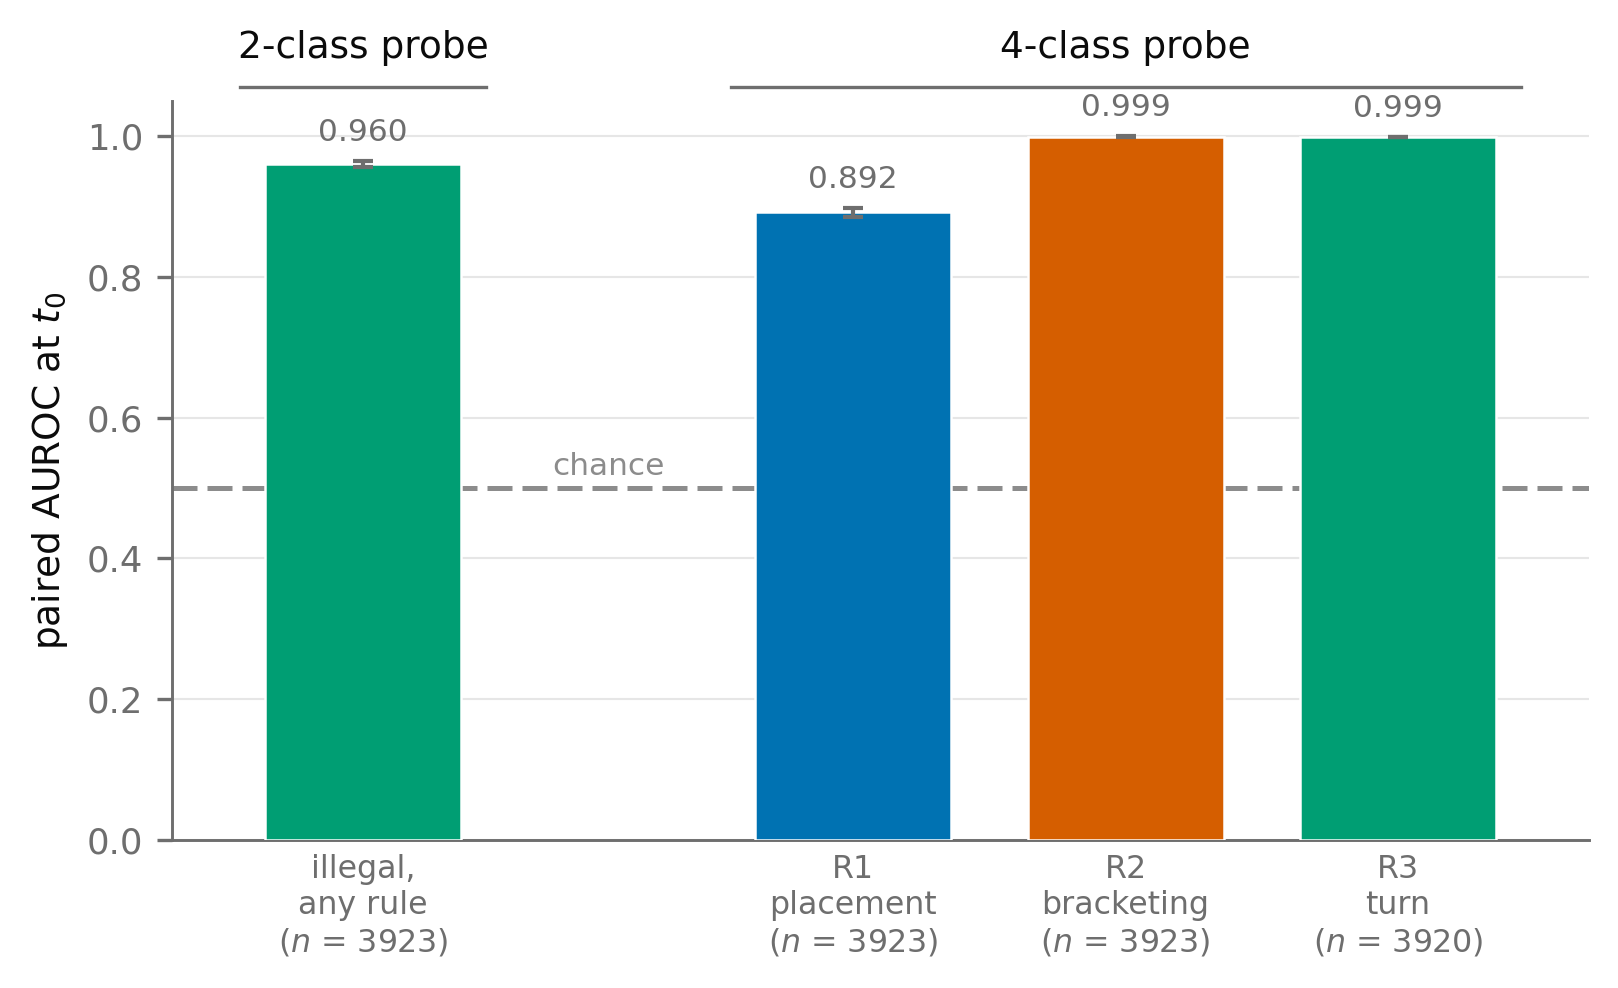
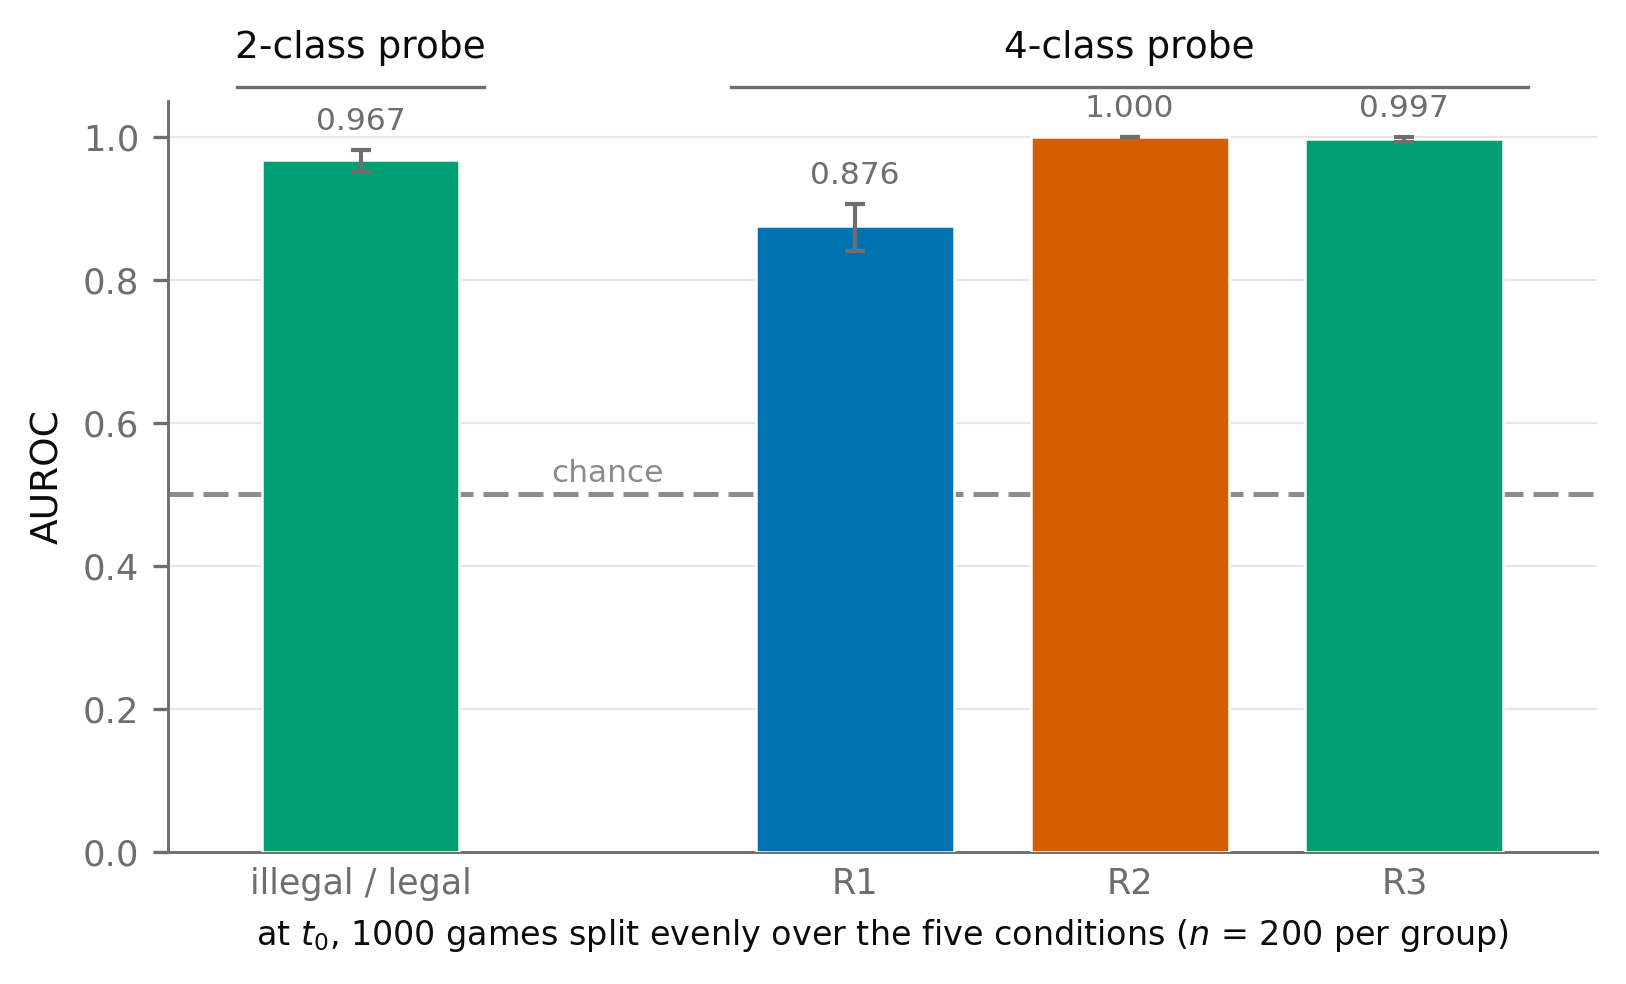
Score the probe-head AUROCs on an evenly split 1000-game evaluation set
The bars now read illegal / legal, R1, R2, R3 against a plain AUROC axis, over
1000 source games dealt disjointly to the five conditions at 200 each, with t0
spanning [10, 34] inside every group.

The even split costs the pairing, which was holding game identity and move index
fixed so the contrast was the move alone; disjoint groups make both between-group
variance and widen the intervals about fourfold. The paired form is still
computed and still in the CSV under a pairing column, because it is what the
README quotes, and the two agree within their intervals on every arm.

diff --git a/analysis/move_legality/detection_auroc.py b/analysis/move_legality/detection_auroc.py
@@ -1,10 +1,19 @@
 """At the spliced move, how well does each probe head separate illegal from legal?
 
-One bar chart. Every bar is a paired AUROC at t0: one arm's score against the score the
-same game's matched legal control gets at the same position of the same prefix, one pair
-per game. The 2-class head is read as P(illegal), the 4-class head as 1 - P(legal) and
-split by which rule the branch actually broke, so a rule the probe cannot catch shows up as
-its own short bar rather than being averaged away.
+One bar chart, over an evaluation set of EVAL_GAMES source games split evenly across the
+five conditions -- legal, illegal, R1, R2, R3 -- so each condition is a disjoint group of
+games and no game appears twice. Every bar is that group's score at its own t0 against the
+legal group's, and t0 varies over the whole [10, 34] range within every group. The 2-class
+head is read as P(illegal), the 4-class head as 1 - P(legal) and split by which rule the
+branch actually broke, so a rule the probe cannot catch shows up as its own short bar
+rather than being averaged away.
+
+**The even split costs the pairing, and that is a real trade.** Scoring an illegal branch
+against *the same game's* legal control at *the same* position held game identity and move
+index fixed, so the contrast was the move alone; disjoint groups reintroduce both as
+between-group variance, and 200 per group widens every interval against 3,923 pairs. The
+paired figure is still computed and still in the CSV (`pairing` column) -- it is the number
+README.md quotes -- so nothing is lost by drawing the split one.
 
 AUROC is threshold-free, so a head's hit rate and the false alarms it pays for it are one
 number rather than two bars. The legal-vs-legal null -- a game's legal control against the
@@ -32,37 +41,91 @@ FIGURES = repo_root() / "analysis" / "move_legality" / "figures"
 RESULTS = repo_root() / "analysis" / "move_legality" / "results"
 RULES = localize.RULES
 SEED = 42
-GAP = 0.8   # blank slot between the two heads
+GAP = 0.8            # blank slot between the two heads
+EVAL_GAMES = 1000    # split evenly over the five conditions, so 200 games each
+N_BOOT = 1000
+CONDITIONS = ["control", "illegal", *RULES]
 
 ARM_STYLE = {
-    "illegal": {**CLASS_STYLE["violation"], "label": "illegal,\nany rule"},
+    "illegal": {**CLASS_STYLE["violation"], "label": "illegal / legal"},
     "control": NULL,   # the legal-vs-legal null: measured, printed in the note, not a bar
-    **{r: {**PROBE_CLASS_STYLE[r],
-           "label": PROBE_CLASS_STYLE[r]["label"].replace(" ", "\n")} for r in RULES},
+    **{r: {**PROBE_CLASS_STYLE[r], "label": r} for r in RULES},
 }
 
 
-def bar(head: str, score: torch.Tensor, arm: str, meta: dict, selection: dict) -> dict:
-    """One arm's AUROC against the legal branch it is paired with in every game.
+def evaluation_split(meta: dict, selection: dict, seed: int = SEED) -> dict[str, np.ndarray]:
+    """EVAL_GAMES games dealt evenly and disjointly to the five conditions.
 
-    The control arm is scored against `control_legal_2`, the second legal branch every game
-    carries: pairing it with itself would print a tautological 0.5 where the reader needs an
-    empirical legal-vs-legal null.
+    Only games carrying every condition are eligible, so the groups are the same size and a
+    missing R3 cannot silently shrink one of them. The deal is a seeded permutation and so is
+    independent of t0: every group spans the whole [10, 34] range rather than one phase of
+    the game.
+    """
+    game = meta["game_id"].numpy()
+    common = set.intersection(*(set(game[selection[c]].tolist()) for c in CONDITIONS))
+    pool = np.array(sorted(common))[:EVAL_GAMES]
+    assert len(pool) == EVAL_GAMES, f"only {len(pool)} games carry all five conditions"
+    dealt = np.random.default_rng(seed).permutation(pool)
+    per = EVAL_GAMES // len(CONDITIONS)
+    out = {}
+    for i, condition in enumerate(CONDITIONS):
+        want = set(dealt[i * per:(i + 1) * per].tolist())
+        rows = selection[condition]
+        out[condition] = rows[np.isin(game[rows], list(want))].numpy()
+        assert len(out[condition]) == per, condition
+    return out
+
+
+def unpaired(score: torch.Tensor, meta: dict, rows: np.ndarray, legal: np.ndarray,
+             seed: int = SEED) -> dict:
+    """AUROC at t0 of one condition's games against the legal group's, and a bootstrap CI.
+
+    Unpaired, because the groups are disjoint by construction: the two arms are resampled
+    independently rather than together, which is what a between-group contrast requires.
+    """
+    from spade.move_legality.probe import auroc
+
+    at_t0 = score.gather(1, meta["t0"].unsqueeze(1)).squeeze(1)
+    positive, negative = at_t0[rows], at_t0[legal]
+    labels = torch.cat([torch.ones(len(positive)), torch.zeros(len(negative))])
+    generator = torch.Generator().manual_seed(seed)
+    draw = lambda n: torch.randint(n, (N_BOOT, n), generator=generator)
+    boot = torch.tensor([auroc(torch.cat([positive[p], negative[q]]), labels)
+                         for p, q in zip(draw(len(positive)), draw(len(negative)))])
+    return {"auroc": auroc(torch.cat([positive, negative]), labels),
+            "lo": float(boot.quantile(0.025)), "hi": float(boot.quantile(0.975)),
+            "n_games": len(rows), "n_legal": len(negative)}
+
+
+def bar(head: str, score: torch.Tensor, arm: str, meta: dict, split: dict) -> dict:
+    """One condition's AUROC against the legal group of the same evaluation split."""
+    return {"head": head, "arm": arm, "style": ARM_STYLE[arm], "pairing": "disjoint groups",
+            **unpaired(score, meta, split[arm], split["control"])}
+
+
+def paired_bar(head: str, score: torch.Tensor, arm: str, meta: dict, selection: dict) -> dict:
+    """The same arm the way the study has always scored it: one pair per game, every game.
+
+    Kept because it is the number README.md quotes and the one the pairing argument is about.
+    Computed, written to the CSV, and not drawn.
     """
     rows = selection[arm]
     null = selection["control2" if arm == "control" else "control"]
-    paired = localize.detection(score, meta, rows,
-                                localize.matched_control(meta, rows, null), seed=SEED)
-    return {"head": head, "arm": arm, "style": ARM_STYLE[arm], **paired}
+    return {"head": head, "arm": arm, "style": ARM_STYLE[arm], "pairing": "paired on game",
+            **localize.detection(score, meta, rows,
+                                 localize.matched_control(meta, rows, null), seed=SEED)}
 
 
-def bars(space: str, meta: dict, selection: dict) -> list[dict]:
-    """Each head's illegal arms, plus the legal-vs-legal null the chance line stands for."""
+def bars(space: str, meta: dict, selection: dict, split: dict) -> list[dict]:
+    """Each head's illegal arms on the even split, and the same arms paired, for the CSV."""
     heads = [("2-class", localize.read(space, "p_illegal"), ["illegal"]),
              ("4-class", 1.0 - localize.read(space, "proba4")[..., 0], RULES)]
-    return [bar(head, score, arm, meta, selection)
-            for head, score, illegal_arms in heads
-            for arm in [*illegal_arms, "control"]]
+    drawn = [bar(head, score, arm, meta, split)
+             for head, score, illegal_arms in heads for arm in illegal_arms]
+    reference = [paired_bar(head, score, arm, meta, selection)
+                 for head, score, illegal_arms in heads
+                 for arm in [*illegal_arms, "control"]]
+    return drawn, reference
 
 
 def draw(space: str, rows: list[dict], camera_ready: bool) -> Path:
@@ -73,7 +136,6 @@ def draw(space: str, rows: list[dict], camera_ready: bool) -> Path:
     what licenses the chance line being read as empirical -- and both live in the CSV.
     """
     fig, ax = plt.subplots(figsize=(5.5, 3.4))
-    rows = [r for r in rows if r["arm"] != "control"]
     x = np.array([i + (GAP if r["head"] == "4-class" else 0.0) for i, r in enumerate(rows)])
 
     split = next(i for i, r in enumerate(rows) if r["head"] == "4-class")
@@ -95,11 +157,14 @@ def draw(space: str, rows: list[dict], camera_ready: bool) -> Path:
         ax.plot([at[0] - 0.45, at[-1] + 0.45], [1.07, 1.07], color=MUTED, lw=0.8,
                 clip_on=False)
 
-    ax.set_xticks(x, [f"{r['style']['label']}\n($n$ = {r['n_games']})" for r in rows],
-                  fontsize=7.6)
+    ax.set_xticks(x, [r["style"]["label"] for r in rows], fontsize=8.4)
     ax.set_ylim(0, 1.05)
     ax.set_xlim(x[0] - 0.7, x[-1] + 0.7)
-    ax.set_ylabel("paired AUROC at $t_0$")
+    ax.set_ylabel("AUROC")
+    # n is one number for the whole panel now that the groups are equal, so it belongs on the
+    # axis rather than repeated under every tick.
+    ax.set_xlabel(f"at $t_0$, {EVAL_GAMES} games split evenly over the five conditions "
+                  f"($n$ = {rows[0]['n_games']} per group)", fontsize=8)
     ax.grid(axis="x", visible=False)
     ax.tick_params(axis="x", length=0)
 
@@ -116,12 +181,17 @@ def main() -> None:
     apply_style(args.camera_ready)
     meta = localize.branches()
     selection = localize.arms(meta, SEED)
-    rows = bars(args.space, meta, selection)
+    split = evaluation_split(meta, selection, SEED)
+    t0 = meta["t0"].numpy()
+    print(f"{EVAL_GAMES} games, {len(split['control'])} per condition; "
+          f"t0 spans {min(t0[r].min() for r in split.values())}-"
+          f"{max(t0[r].max() for r in split.values())} in every group")
+    drawn, reference = bars(args.space, meta, selection, split)
 
-    print(draw(args.space, rows, args.camera_ready))
+    print(draw(args.space, drawn, args.camera_ready))
     RESULTS.mkdir(parents=True, exist_ok=True)
     table = pd.DataFrame([{"space": args.space, **{k: v for k, v in r.items() if k != "style"}}
-                          for r in rows])
+                          for r in drawn + reference])
     csv = RESULTS / f"detection_auroc_{args.space}.csv"
     table.to_csv(csv, index=False)
     print(f"wrote {csv}")

diff --git a/analysis/move_legality/README.md b/analysis/move_legality/README.md
@@ -241,12 +241,19 @@ resamples). A game's branches share `tokens[:t0]` and are not independent draws;
 rows would give intervals several times too tight. Every arm draws one branch per game at
 seed 42 rather than averaging a game's categories, which would give it 1/√k of its spread.
 
-`raw_detection_auroc.png` is a bar per illegal arm of the paired AUROC at *t0* — one illegal
-branch against the same game's legal control, one pair per game, threshold-free, so a head's
-hit rate and its false alarms are one number. The 2-class head is read as *P*(illegal), the
-4-class as 1 − *P*(legal). Above 0.5 the head scores the illegal move above the legal one,
-and AUROCs are never flipped here, so a bar *below* 0.5 would be the finding. Error bars are
-95% percentile bootstrap CIs over paired games (1,000 resamples).
+`raw_detection_auroc.png` is a bar per illegal arm of the AUROC at *t0* over an evaluation
+set of **1,000 source games split evenly and disjointly over the five conditions** — legal,
+illegal, R1, R2, R3, 200 games each — with *t0* spanning the full [10, 34] range inside every
+group. Bars read `illegal / legal`, `R1`, `R2`, `R3`; the y axis is AUROC.
+
+**The even split costs the pairing.** Scoring an illegal branch against *the same game's*
+legal control at *the same* position held game identity and move index fixed, so the contrast
+was the move alone. Disjoint groups reintroduce both as between-group variance, and 200 games
+per group widens every interval roughly fourfold — R1 is 0.876 [0.840, 0.906] split against
+0.892 [0.885, 0.899] paired. Both are in `detection_auroc_raw.csv` under a `pairing` column;
+the paired numbers are the ones quoted elsewhere in this README, and they are what the
+"AUROC 0.960" claim above refers to. The two agree to within their intervals on every arm,
+which is the check that the split is not doing anything strange.
 
 Its chance line is empirical rather than assumed: each head also scores that legal control
 against the second legal control the game carries, which lands at 0.502 (CI 0.491–0.512) for
